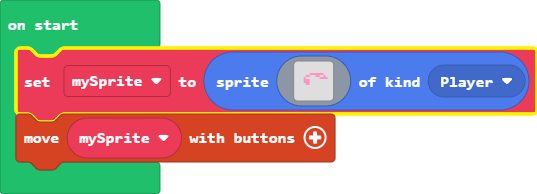
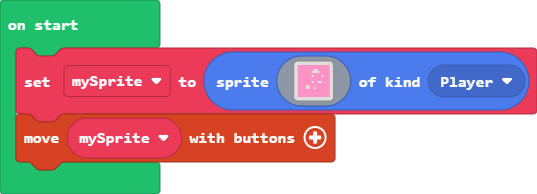
Update main.blocks, main.ts

Changed region(s): [[0.0, 0.2165, 1.0, 0.6186], [0.5363, 0.3093, 0.6257, 0.5258], [0.0596, 0.5876, 0.1192, 0.6495]]

diff --git a/main.ts b/main.ts
@@ -1,19 +1,19 @@
 let mySprite = sprites.create(img`
-    . . . . . . . . . . . . . . . . 
-    . . . . . . . . . . . . . . . . 
-    . . . . . . . . . . . . . . . . 
-    . . . . . . . . . . . . . . . . 
-    . . . . . . 3 3 3 3 3 3 3 . . . 
-    . . . . 3 3 . . . 3 3 . . 3 . . 
-    . . . 3 . . . . . . . 3 3 3 3 . 
-    . . . 3 3 3 . . . . . . . . . . 
-    . . . 3 3 3 . . . . . . . . . . 
-    . . . . 3 3 . . . . . . . . . . 
-    . . . . . . . . . . . . . . . . 
-    . . . . . . . . . . . . . . . . 
-    . . . . . . . . . . . . . . . . 
-    . . . . . . . . . . . . . . . . 
-    . . . . . . . . . . . . . . . . 
-    . . . . . . . . . . . . . . . . 
+    3 3 3 3 3 3 3 3 3 3 3 3 3 3 3 3 
+    3 3 3 3 3 3 3 3 3 3 3 3 3 3 3 3 
+    3 3 3 3 3 3 3 3 . . 3 3 3 3 3 3 
+    3 3 3 3 3 3 3 . . . . 3 3 3 3 3 
+    3 3 3 3 3 3 3 3 3 3 3 3 3 3 3 3 
+    3 3 3 3 3 3 3 . 3 3 3 3 . 3 3 3 
+    3 3 3 3 3 3 3 3 3 3 3 3 3 3 3 3 
+    3 3 3 3 3 3 3 3 3 3 3 3 3 3 3 3 
+    3 3 3 3 3 3 3 . 3 3 . . 3 3 3 3 
+    3 3 3 3 3 3 3 3 3 3 3 3 3 3 3 3 
+    3 3 3 3 . . 3 3 3 3 3 3 3 3 3 3 
+    3 3 3 3 . . 3 3 . 3 3 3 3 3 3 3 
+    3 3 3 3 3 3 3 3 3 3 3 3 3 3 3 3 
+    3 3 3 3 3 3 3 3 3 3 3 3 3 3 3 3 
+    3 3 3 3 3 3 3 3 3 3 3 3 3 3 3 3 
+    3 3 3 3 3 3 3 3 3 3 3 3 3 3 3 3 
     `, SpriteKind.Player)
 controller.moveSprite(mySprite)
